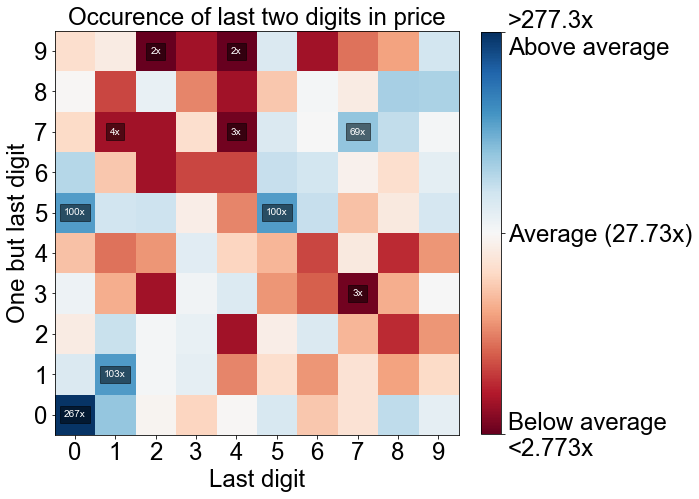
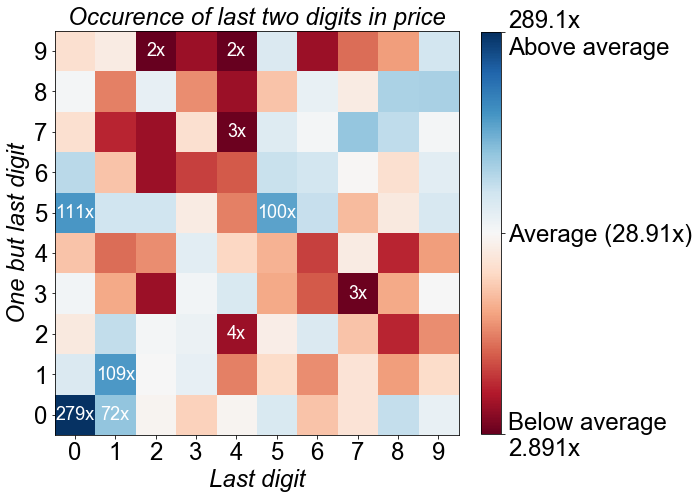
update digit analysis with March '19 results
and make figure consistent with others

diff --git a/results/README.md b/results/README.md
@@ -6,7 +6,7 @@ In auctions where the bid price is not made public the winning bid could have be
 In attempt to see where the balance is between outbidding and adding a little to your intended bid, I've investigated the last two digits of the prices in the auctions. Because only the winning bid is made public, the distribution of all the bids is unknown and strategic bidding prices remain invisible. But still this analysis might give an indication of where to strategically put a bid.
 
 ![F1](./last-two-digits.png)  
-_Figure 1. Last two digits of all winning bids (Feb. 2019). The last digits (0, 1, .. 8, 9) are on the abscissa. The decimal digits (10, 20, .. 80, 90) are on the ordinate. The lower left square contain bids ending with `00` (E.g. `1100`, `100` or `4200`). The upper right are bids ending with `99` (`4299`, `99`, ..). The number of bids are shown as color intensity. If the occurrence is homogenous for all numbers, the occurrence would be the total number of bids divided by the possibilities. As of February 2019 this was 2773/100 = 27.73 times. This is the (expected) average of occurrence and indicated in **white**. **Blue** indicates above average occurrence (saturating at 10 times the expected value) and **red** is below average (saturating at 1/10 of the expected value). Five most occurring digits (267 to 69 times) and five least occurring digits (only 2 to 4 times) are labeled inside the squares._
+_Figure 1. Last two digits of all winning bids (Mar. 2019). The last digits (0, 1, .. 8, 9) are on the abscissa. The decimal digits (10, 20, .. 80, 90) are on the ordinate. The lower left square contain bids ending with `00` (E.g. `1100`, `100` or `4200`). The upper right are bids ending with `99` (`4299`, `99`, ..). The number of bids are shown as color intensity. If the occurrence is homogenous for all numbers, the occurrence would be the total number of bids divided by the possibilities. As of March 2019 this was 2891/100 = 28.91 times. This is the (expected) average of occurrence and indicated in **white**. **Blue** indicates above average occurrence (saturating at 10 times the expected value) and **red** is below average (saturating at 1/10 of the expected value). Five most occurring digit pairs (279 [`00`] to 72 times) and five least occurring digit pairs (only 2 to 4 times) are labeled inside the colored squares._
 
 Fig. 1 shows bids ending with `00` are most frequent. A higher bid ending with `01` could have outbid these items. Other frequent occurring bids (blue) end with `11`, `50`, `55` and `77`. Figure 1 appear to show a blue-to-white diagonal (`x = y`). This indicates that bids with the same digits (`11`, `22`, `33`, ..) appear to be frequent. Bids with `4` as the last digit are not so frequent. This can be seen by a red vertical band at `x = 4`. Bids ending with `92` and `94` occur only twice each (dark red). It might be a good strategical advantage to use a bid ending with these values (however note the caveat not knowing all bids to this conclusion here above). Increasing a bid with close to EUR 100 might not be worth the edge, however a less expensive cost is to choose to end a bid with `37`, which only occurs 3 times.
 
